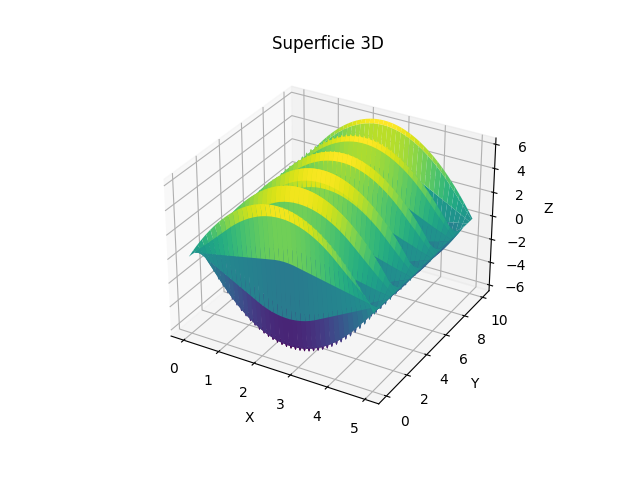
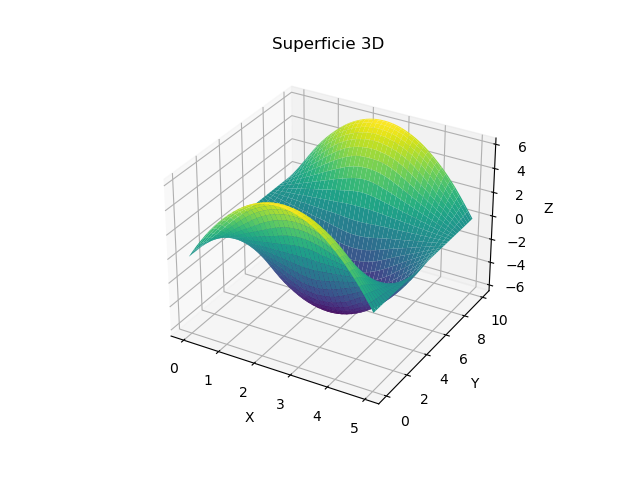
fotos

Changed region(s): [[0.2812, 0.25, 0.75, 0.75], [0.4062, 0.0625, 0.5938, 0.125]]

diff --git a/Ondas/Ondas.py b/Ondas/Ondas.py
@@ -5,7 +5,7 @@ a = 0
 b = 5
 c = 0
 d = 10
-v = 5
+v = 1
 
 M = 400
 N = 40
